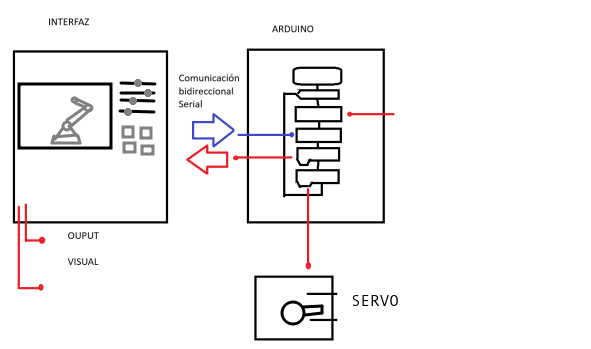
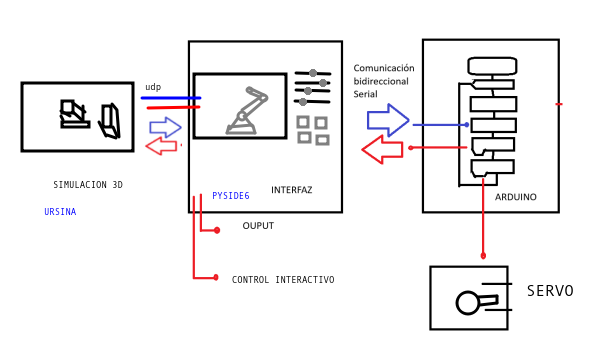
download links

diff --git a/mi-proyecto-robot/index.html b/mi-proyecto-robot/index.html
@@ -3,7 +3,7 @@
 <head>
     <meta charset="UTF-8">
     <meta name="viewport" content="width=device-width, initial-scale=1.0">
-    <title>Informe Técnico: Brazo Robótico 6 DOF & Gemelo Digital</title>
+    <title>Informe Técnico: Brazo Robótico</title>
     <link rel="stylesheet" href="styles.css">
     <link rel="preconnect" href="https://fonts.googleapis.com">
     <link rel="preconnect" href="https://fonts.gstatic.com" crossorigin>
@@ -14,8 +14,8 @@
     <!-- Navegación Lateral / Menú -->
     <aside class="sidebar">
         <div class="brand">
-            <h2>ROBOT ARM 6-DOF</h2>
-            <p>Digital Twin & Control Multimodal</p>
+            <h2>ROBOT ARM</h2>
+            <p>Wire & wool</p>
         </div>
         <nav>
             <ul>
@@ -35,19 +35,32 @@
     <!-- Contenido Principal -->
     <main class="content">
 
+        <img src="img/splash.png" alt="Wire & Wool" style="width: 100%;object-fit: cover;display: block;border-bottom: 2px solid #ffe3ec;">
+
         <!-- Encabezado -->
         <header class="hero">
-            <span class="badge">Open Source Project</span>
-            <h1>Sistema de Control Integral para Brazo Robótico de 6 DOF</h1>
+            <span class="badge">Open Source Project</span><span class="badge">Python 3.10+</span><span class="badge">Linux</span><span class="badge">Windows</span>
+            <h1>Sistema de Control Integral para Brazo Robótico</h1>
             <p class="subtitle">Gemelo Digital en Ursina Engine, Visión Artificial (MediaPipe) y Arquitectura Multimodal con PySide6</p>
         </header>
+
+
 
         <!-- Resumen -->
         <section id="resumen" class="card">
             <h2>Resumen del Proyecto</h2>
             <p>El presente proyecto detalla el diseño, desarrollo e implementación de un sistema robótico integral de 6 grados de libertad (6 DOF), caracterizado por una arquitectura de control multimodal y un entorno de simulación tridimensional. A diferencia de los controladores robóticos convencionales, este sistema propone un ecosistema híbrido que fusiona el hardware físico con un Gemelo Digital desarrollado en Ursina Engine, permitiendo la sincronización bidireccional mediante protocolos de comunicación de baja latencia (UDP Sockets).</p>
-            <p>La unidad central de control, desarrollada en Python (PySide6), permite la gestión del brazo de manera clara e intuitiva. El desarrollo se apoya en una metodología de Investigación y Desarrollo (R&D) que optimiza algoritmos de filtrado de señal, cinemática inversa y automatización de procesos. Se distribuye bajo una licencia de código abierto.</p>
+            <p>La unidad central de control, desarrollada en Python (PySide6), permite la gestión del brazo de manera clara e intuitiva. El desarrollo se apoya en una metodología de Investigación y Desarrollo (R&D) apoyado de herramientas de integigencia Artificial.
+            El proyecto se distribuye bajo una licencia de código abierto (MIT) lo cual significa que cualquiera puede desgargar y modificar el proyecto segun sus requerimietos de manera completamente libre.</p>
+            <div class="box">
+                <h3>Descargar software</h3>
+                <li><a href="https://github.com/djarky/robot-arm/releases/download/v1.0.1/UrsinaArmSimulator-windows-x86_64.zip">Windows 10/11 (64bit)</a></li>
+                <li><a href="https://github.com/djarky/robot-arm/releases/download/v1.0.1/UrsinaArmSimulator-linux-x86_64.zip">Linux (64 bits)</a></li>
+                <li><a href="https://github.com/djarky/robot-arm">codigo fuente</a></li>
+            </div>
         </section>
+
+        <img src="img/screenshot.png" alt="UI" style="width: 100%;object-fit: cover;display: block;border-bottom: 2px solid #ffe3ec;">
 
         <!-- Objetivos -->
         <section id="objetivos" class="card">
@@ -55,7 +68,7 @@
             <div class="grid-2">
                 <div class="box">
                     <h3>Objetivo General</h3>
-                    <p>Diseñar e implementar un sistema integral de control para un brazo robótico de 6 grados de libertad (6 DOF), que permita la manipulación precisa mediante una interfaz gráfica avanzada el cual sea ituitivo y facil de usar y  simulación digital en tiempo real y control biométrico basado en visión artificial por camara.</p>
+                    <p>Diseñar e implementar un sistema integral de control para un brazo robótico de 6 grados de libertad (6 DOF), que permita la manipulación precisa mediante una interfaz gráfica avanzada el cual sea ituitivo y facil de usar y  simulación digital en tiempo real y control por medio de Joypads ademas de la posivilidad de usar un control biométrico basado en visión artificial por camara.</p>
                 </div>
                 <div class="box">
                     <h3>Objetivos Específicos</h3>
@@ -73,29 +86,18 @@
         <section id="justificacion" class="card">
             <h2>2. Justificación del Proyecto</h2>
             <p>se ofrece una herramienta educativa y técnica que permite previsualizar los movimientos DEL ROBOT antes de ejecutarlos en el hardware real, minimizando riesgos de colisión y facilitando la programación de tareas complejas mediante una línea de tiempo interactiva.
-El proyecto ha sido concebido bajo la filosofía de Código Abierto (Open Source), permitiendo que la comunidad técnica pueda estudiar, modificar y mejorar el sistema..</p>
-            <p>Desarrollado bajo la filosofía de Código Abierto (Open Source), la arquitectura se basa en un modelo de Licenciamiento Híbrido Permisivo (PySide6 LGPL v3, Ursina MIT, MediaPipe Apache 2.0)</p>
+El proyecto ha sido concebido bajo la filosofía de Código Abierto (Open Source), permitiendo que la comunidad técnica pueda estudiar, modificar y mejorar el sistema.</p>
+            <p>Desarrollado bajo la filosofía de Código Abierto (Open Source), la arquitectura se basa en un modelo de Licenciamiento Híbrido Permisivo (PySide6 LGPL v3, Ursina MIT, MediaPipe Apache 2.0) garantiza su libre distribucion</p>
         </section>
 
 
-
-
-
-            <h3 class="mt-4">Pilares de Innovación del Ecosistema</h3>
-            <ul>
-                <li><strong>Fusión de Interfaces:</strong> Integración fluida de visión por computador (MediaPipe), simulación en tiempo real (Ursina) y control físico en un solo entorno unificado.</li>
-                <li><strong>Arquitectura Gemelo Digital (Digital Twin):</strong> Sincronización bidireccional y previsualización de trayectorias en un modelo 3D antes de ejecutarlas en el robot real.</li>
-                <li><strong>Modo de Precisión CNC:</strong> Capacidad de alternar dinámicamente entre un control gestual humano y un sistema numérico de trayectoria matemática.</li>
-                <li><strong>Robótica Blanda Híbrida ("Brazo Amigurumi"):</strong> La incorporación de fibra textil tejida como amortiguación intrínseca y chasis liviano.</li>
-            </ul>
-        </section>
 
         <!-- Desarrollo -->
         <section id="desarrollo" class="card">
             <h2>3. Desarrollo o Cuerpo del Proyecto</h2>
 
             <h3>3.1 Metodología de Desarrollo</h3>
-            <p>El proceso de R&D se fundamentó en Ingeniería Asistida por IA, Programación Agéntica y "Vibe Coding" La IA actuó como coprogramador y arquitecto de software, permitiendo enfocarse en la lógica del sistema y la integración de hardware más que en la codificación manual de bajo nive </p>
+            <p>El proceso de R&D se fundamentó en Ingeniería Asistida por IA, Programación Agéntica y "Vibe Coding" La IA actuó como coprogramador y arquitecto de software, permitiendo enfocarse en la lógica del sistema y la integración de hardware más que en la codificación manual de bajo nivel </p>
 
             <h3>3.2 Componentes del Sistema</h3>
             <p>El hardware está basado en el modelo "Fabri Creator" de 6 DOF con modificaciones</p>
@@ -118,7 +120,7 @@ El proyecto ha sido concebido bajo la filosofía de Código Abierto (Open Source
             <h3 class="mt-4">Firmware</h3>
             <div class="grid-2">
                 <div>
-                    <p>El microcontrolador actúa como nodo esclavo interpretando comandos seriales a 115200 baudios[cite: 1]. Mapea los ángulos recibidos (0° - 180°) y posiciona los servomotores mediante <code>Servo.h</code></p>
+                    <p>El microcontrolador actúa como nodo esclavo interpretando comandos seriales a 115200 baudios. Mapea los ángulos recibidos (0° - 180°) y posiciona los servomotores mediante <code>Servo.h</code></p>
                     <div class="media-card">
                         <img src="img/arduino_hardware.jpg" alt="Placa Arduino">
                         <span>Arduino UNO y módulos</span>
@@ -160,7 +162,7 @@ void loop() {
             </div>
 
             <h3 class="mt-4">Fabricación No Convencional: "Brazo Amigurumi"</h3>
-            <p>Dada la indisponibilidad de impresión 3D, se optó por el tejido técnico mediante la técnica de Amigurumi (Crochet), alineándose con los principios de <strong>Soft Robotics</strong>[cite: 1]. Permite absorción de vibraciones, reducción de costos y resiliencia mecánica[cite: 1].</p>
+            <p>Dada la indisponibilidad de impresión 3D, se optó por el tejido técnico mediante la técnica de Amigurumi (Crochet), alineándose con los principios de <strong>Soft Robotics</strong>[cite: 1].donde la flexibilidad del material permite una mayor tolerancia a impactos y una interacción más segura con humanos</p>
         </section>
 
         <!-- Innovación -->
@@ -177,7 +179,7 @@ void loop() {
                 <div class="box">
                     <h3>Manufactura Textil Sustentable</h3>
                     <p>
-                        El método de usar fabricación artesanal por medio de textiles demuestra ser ecoamigable y sostenible, dado que no utiliza plásticos de un solo uso o filamentos derivados del petróleo que dañan el medio ambiente, superando las limitaciones tradicionales de la impresión 3D.
+                        El método de usar fabricación artesanal por medio de textiles demuestra ser ecoamigable y sostenible, dado que no utiliza plásticos de un solo uso o filamentos derivados del petróleo que dañan el medio ambiente, superando las limitaciones tradicionales de la impresión 3D y perimitiendo la reducción de costos .
                     </p>
                 </div>
             </div>
@@ -188,11 +190,11 @@ void loop() {
             <div class="grid-3">
                 <div class="box">
                     <h3>Educativo</h3>
-                    <p>Plataforma STEM integral para el aprendizaje de cinemática, visión artificial y desarrollo HMI[cite: 1].</p>
+                    <p>Plataforma STEM integral para el aprendizaje de cinemática, visión artificial y desarrollo HMI</p>
                 </div>
                 <div class="box">
                     <h3>Productivo</h3>
-                    <p>Teleoperación segura, prototipado de bajo costo y automatización CNC ligera[cite: 1].</p>
+                    <p>Teleoperación segura, prototipado de bajo costo y automatización CNC </p>
                 </div>
                 <div class="box">
                     <h3>Social & Ambiental</h3>
@@ -218,15 +220,23 @@ void loop() {
             <div class="grid-3">
                 <div class="media-card">
                     <img src="img/arduino_pinout.png" alt="Arduino Pinout">
-                    <span>Imagen N°16: Pinout Arduino UNO[cite: 1]</span>
+                    <span>Imagen N°16: Pinout Arduino UNO</span>
                 </div>
                 <div class="media-card">
                     <img src="img/base_nema.png" alt="Modificación Base">
-                    <span>Imagen N°18: Modificación Modelo 3D[cite: 1]</span>
+                    <span>Imagen N°18: Modificación al Modelo 3D orgininal</span>
                 </div>
                 <div class="media-card">
                     <img src="img/tejido_amigurumi.jpg" alt="Tejido Amigurumi">
-                    <span>Imagen N°19: Montaje Tejido Amigurumi[cite: 1]</span>
+                    <span>Imagen N°19: Montaje Tejido Amigurumi</span>
+                </div>
+                <div class="media-card">
+                    <img src="img/amigurumi2.png" alt="Montaje Amigurumi">
+                    <span>Imagen N°20: Montaje Tejido Amigurumi</span>
+                </div>
+                <div class="media-card">
+                    <img src="img/montaje.jpg" alt="montaje en la feria">
+                    <span>Imagen N°21: Montaje final en la feria institucional</span>
                 </div>
             </div>
         </section>
